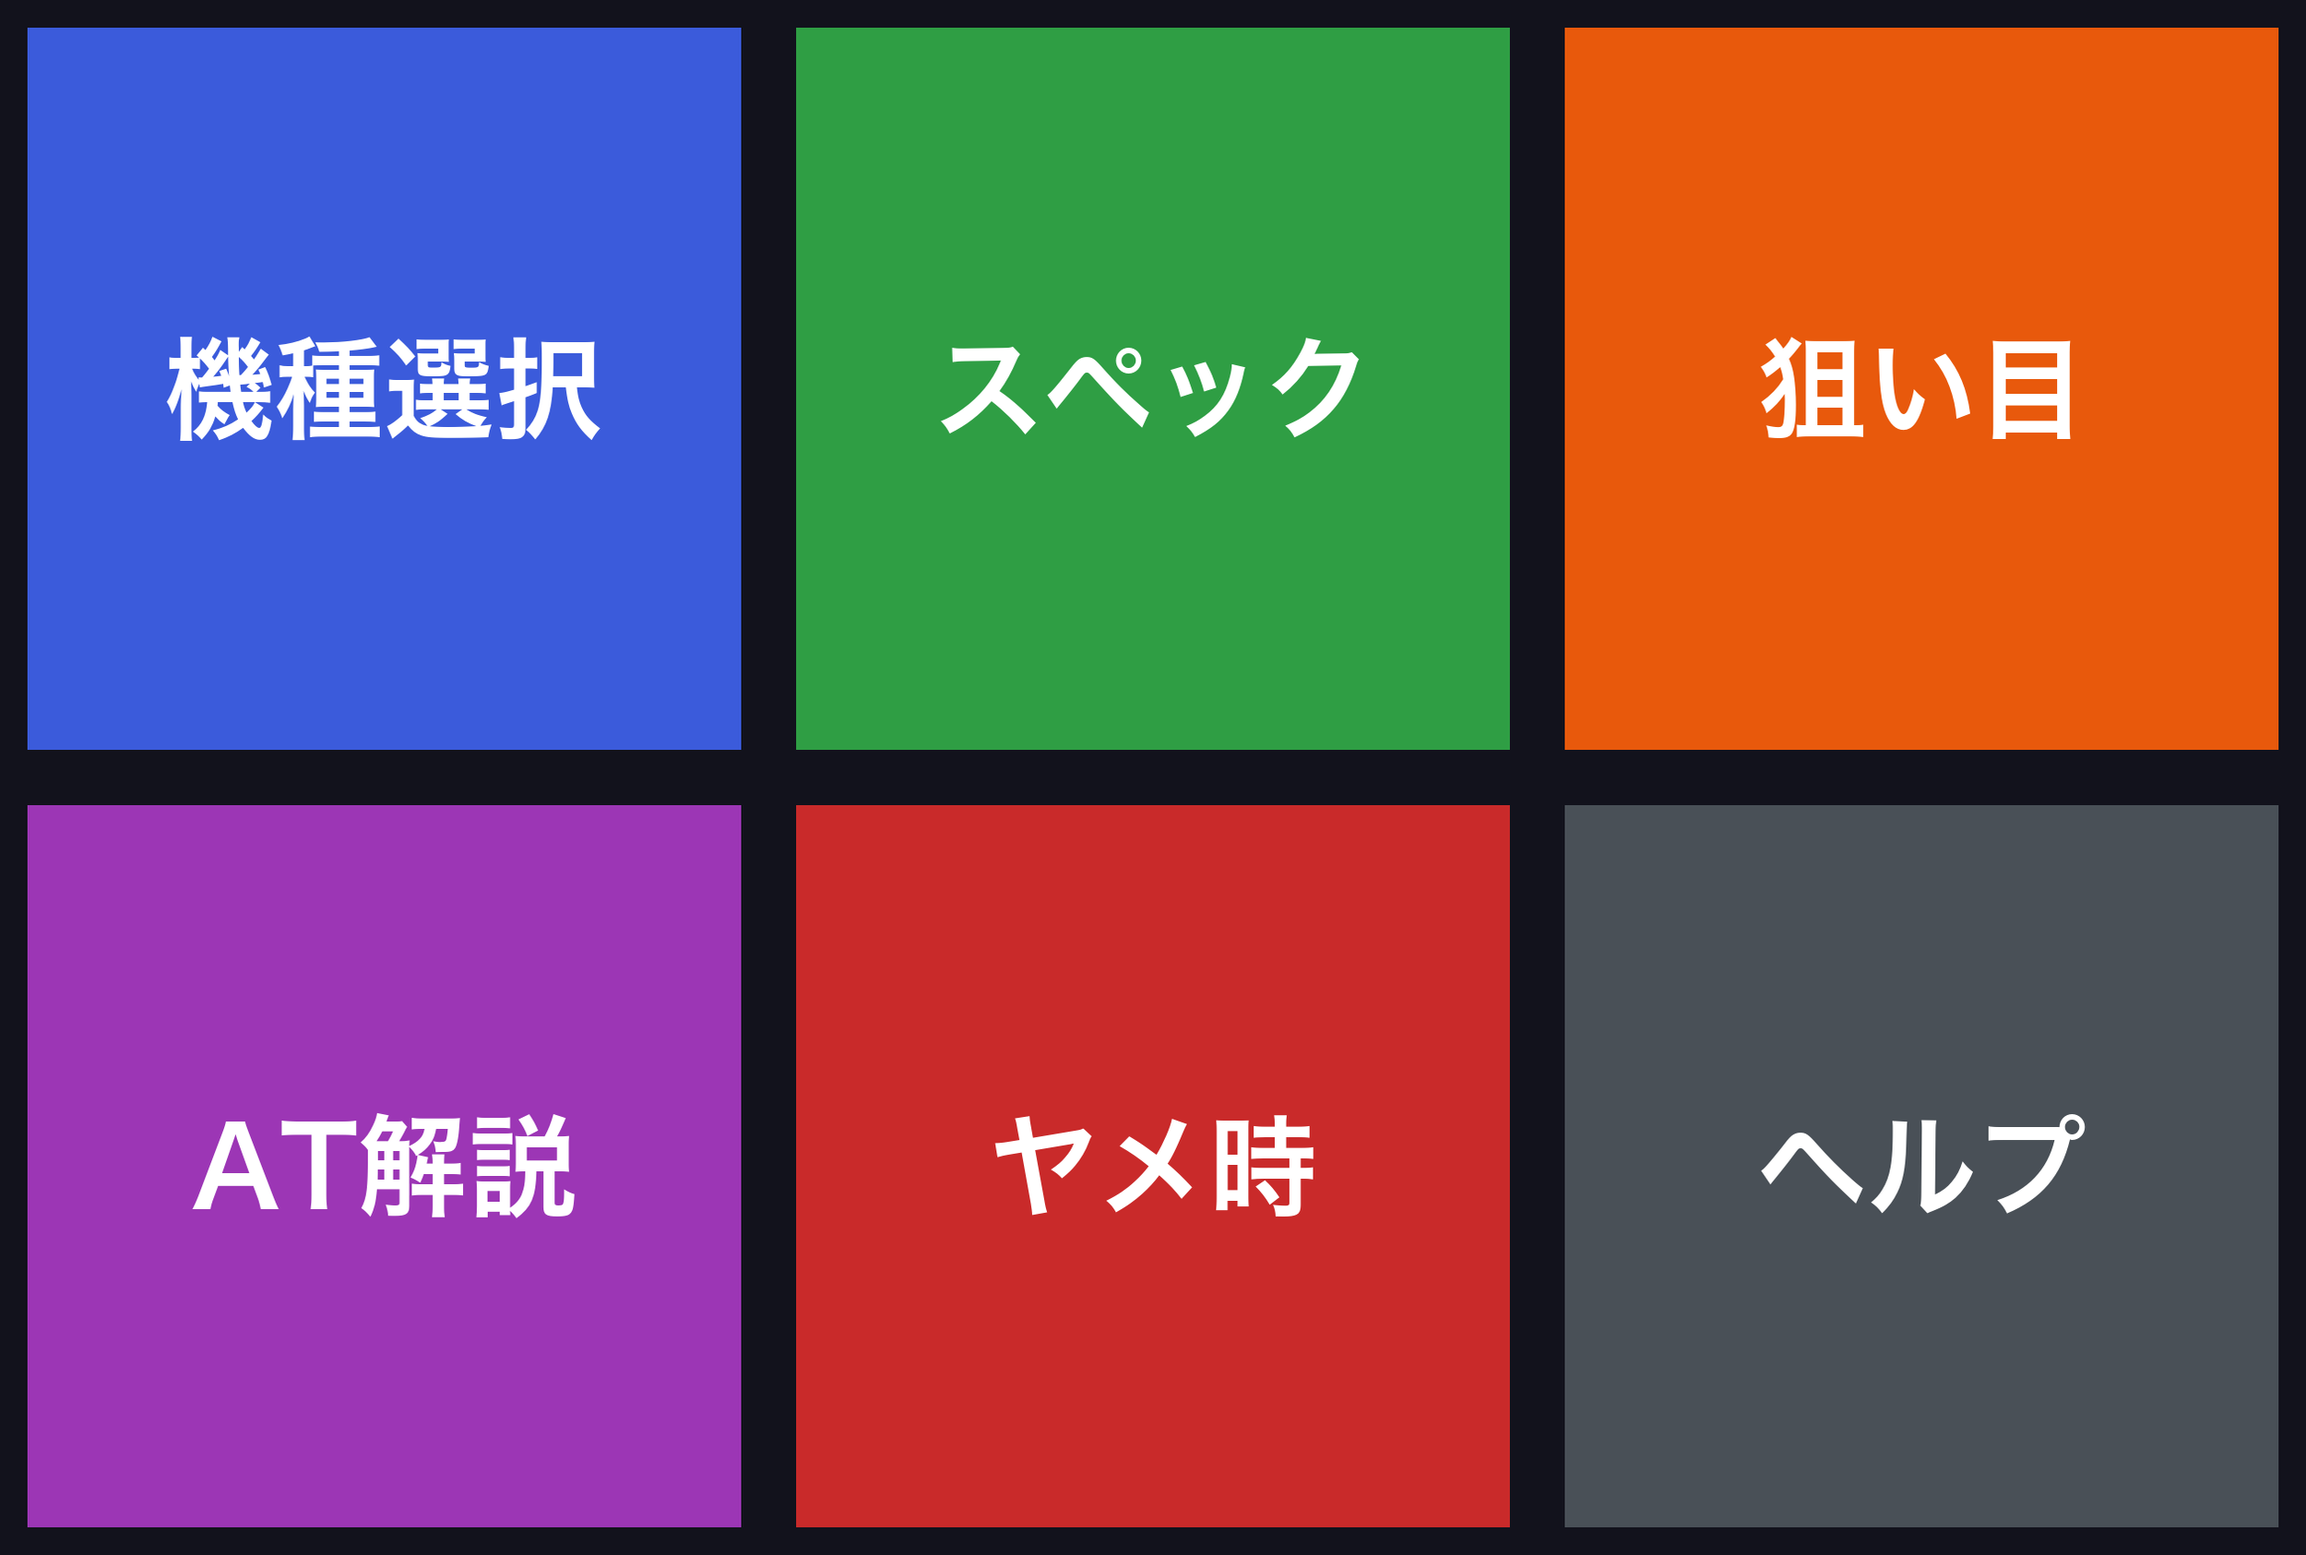
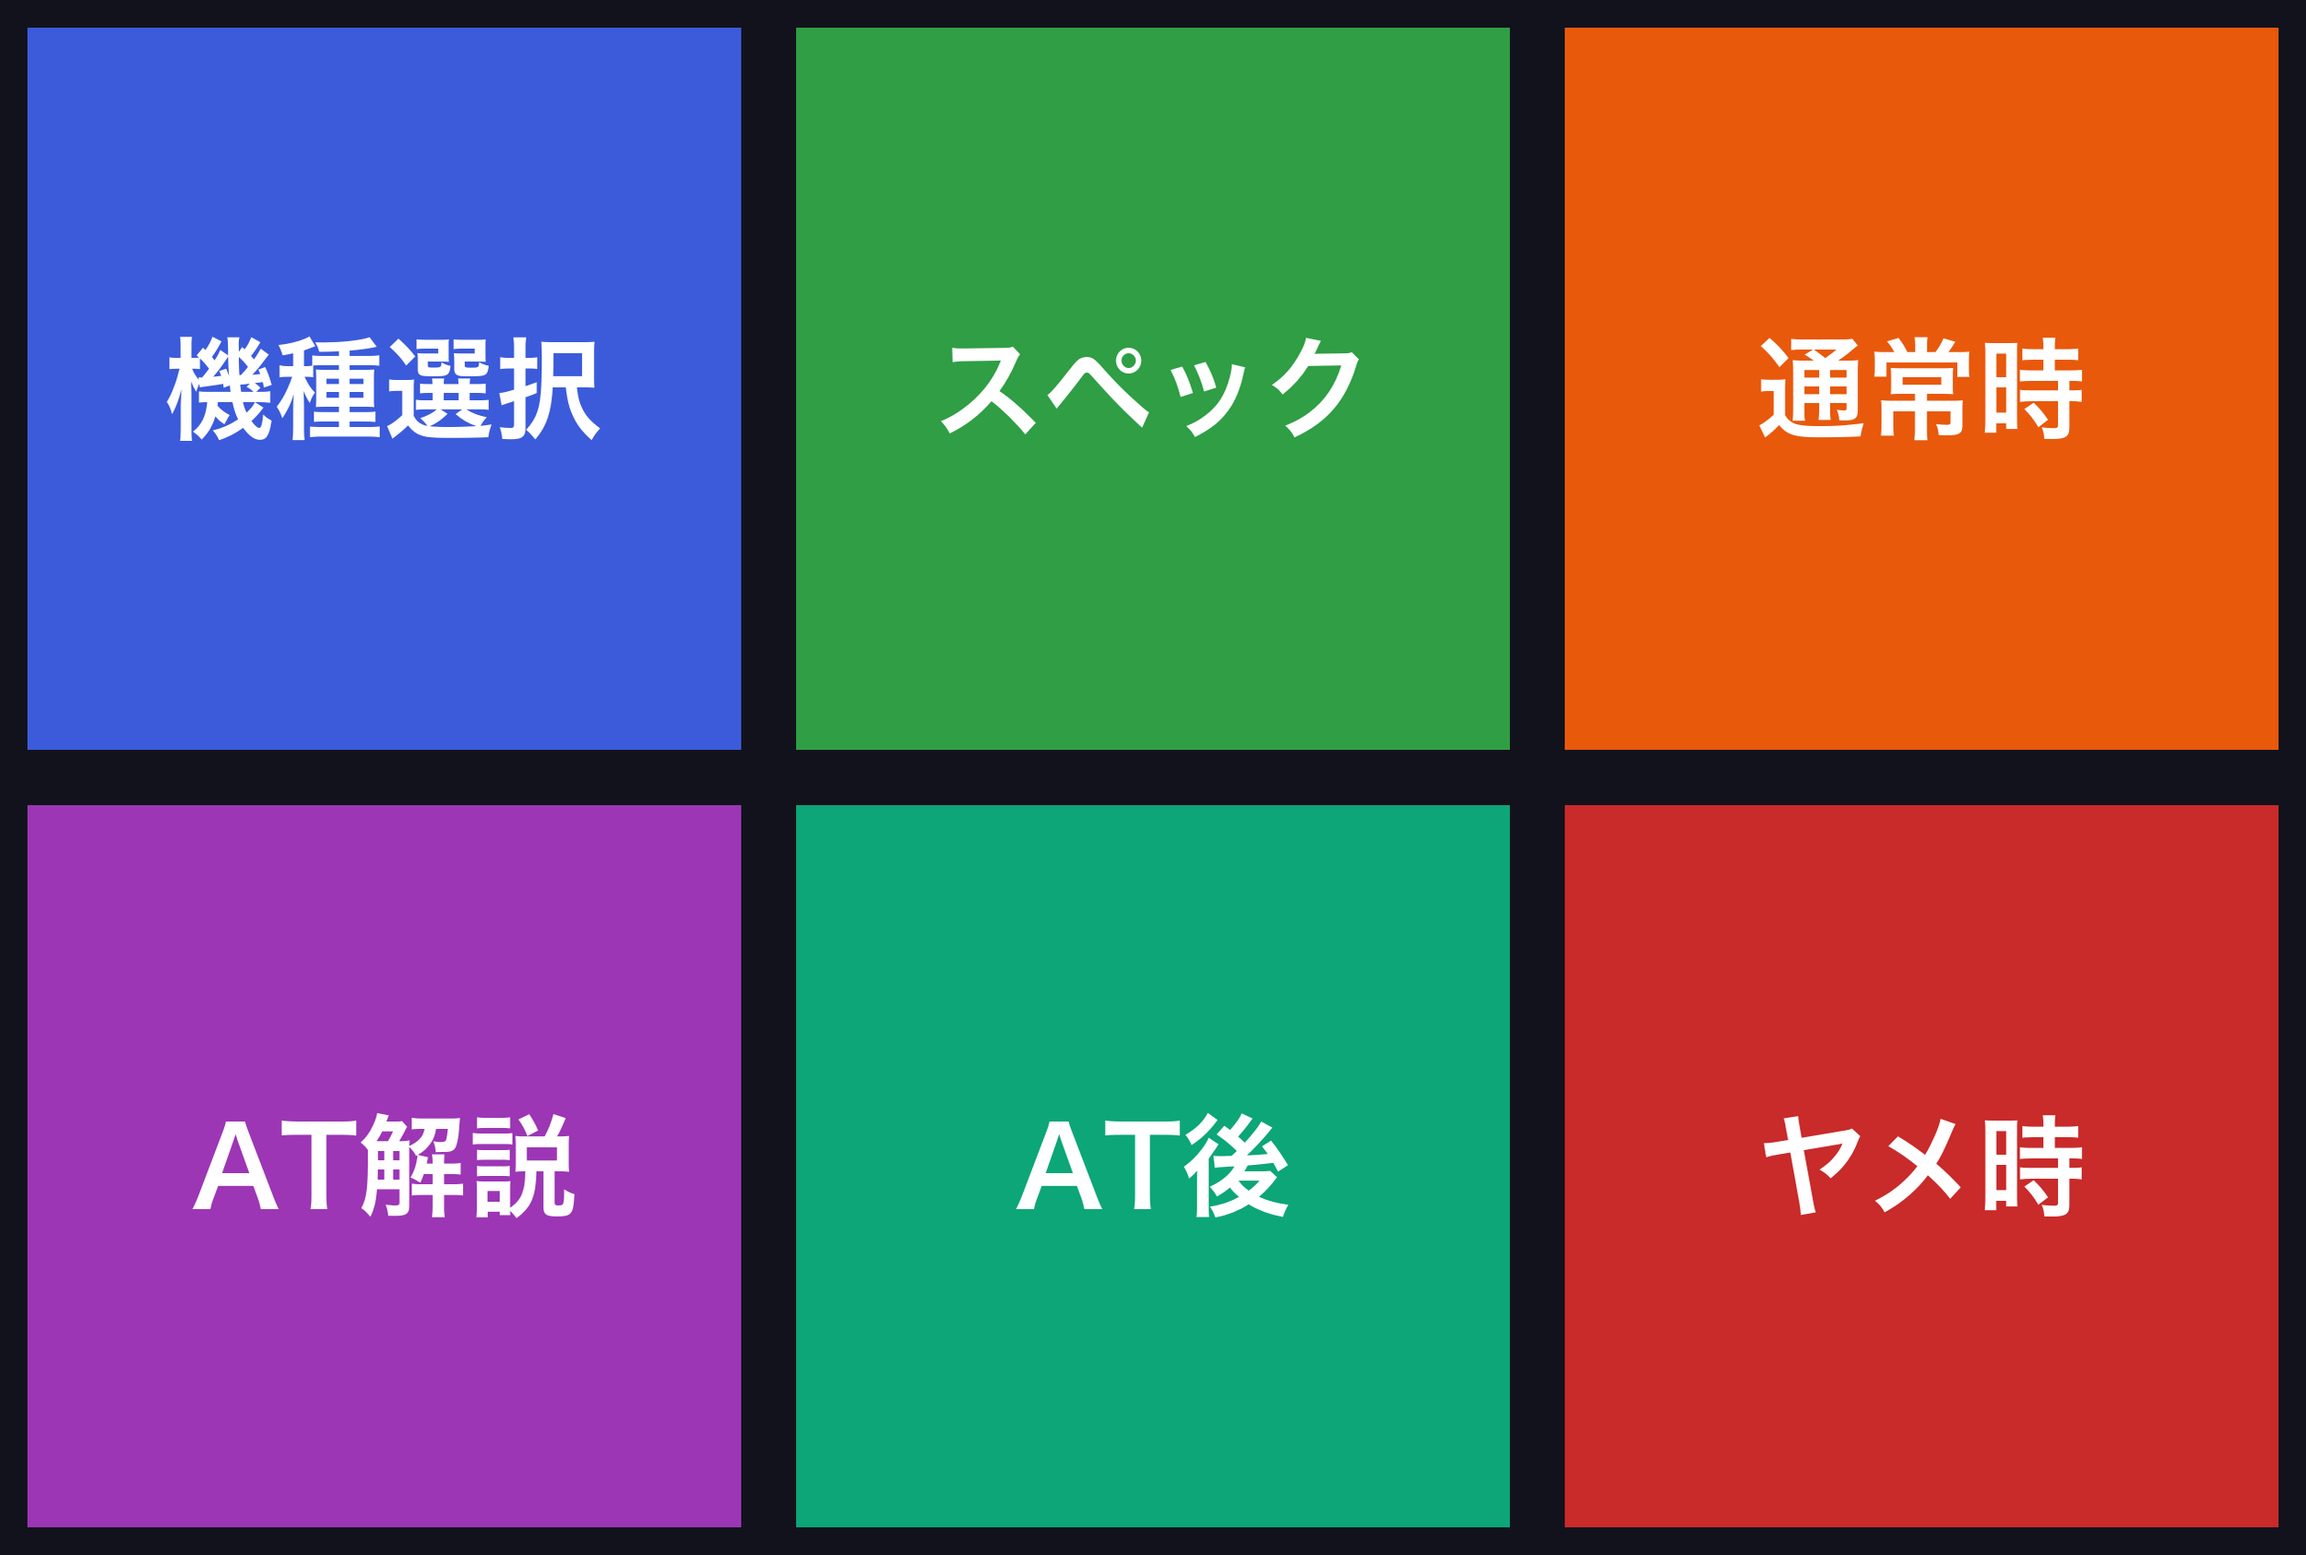
Consolidate to 6 buttons; add NORMAL and AT_AFTER sections

Changed region(s): [[0.3432, 0.4935, 0.9984, 0.987], [0.7488, 0.2159, 0.9048, 0.2776]]

diff --git a/src/router.ts b/src/router.ts
@@ -4,15 +4,18 @@ export type RouteResult = { kind: 'section'; section: SectionKey } | { kind: 'ai
 
 const BUTTON_MAP: Record<string, SectionKey> = {
   スペック: 'SPEC',
+  通常時: 'NORMAL',
   狙い目: 'NORMAL',
   AT解説: 'AT_CZ',
+  AT後: 'AT_AFTER',
   ヤメ時: 'EXIT_SETTING',
 };
 
 const KEYWORD_MAP: { re: RegExp; section: SectionKey }[] = [
   { re: /(純増|コイン持ち|出玉率|機械割|初当り|初当たり|確率|天井|リセット|スルー)/, section: 'SPEC' },
-  { re: /(狙い目|ゾーン|周期|モード)/, section: 'NORMAL' },
+  { re: /(通常時|前兆|モード|周期|ゾーン|狙い目)/, section: 'NORMAL' },
   { re: /(チャンスゾーン|CZ|AT|上乗せ|特化)/i, section: 'AT_CZ' },
+  { re: /(AT後|AT終了後|終了後|引き戻し|上位示唆|ツラヌキ)/, section: 'AT_AFTER' },
   { re: /(ヤメ時|やめ時|やめどき|終了画面|設定判別)/, section: 'EXIT_SETTING' },
 ];
 
@@ -28,7 +31,8 @@ export function routeText(text: string): RouteResult {
 
 export const ACTION_SECTION: Record<string, SectionKey> = {
   spec: 'SPEC',
-  netaime: 'NORMAL',
+  normal: 'NORMAL',
   at: 'AT_CZ',
+  after: 'AT_AFTER',
   exit: 'EXIT_SETTING',
 };

diff --git a/src/machineLoader.ts b/src/machineLoader.ts
@@ -1,4 +1,4 @@
-export type SectionKey = 'SPEC' | 'NORMAL' | 'AT_CZ' | 'EXIT_SETTING';
+export type SectionKey = 'SPEC' | 'NORMAL' | 'AT_CZ' | 'AT_AFTER' | 'EXIT_SETTING';
 
 export function getSection(md: string, section: SectionKey): string {
   const lines = md.split('\n');

diff --git a/src/data/machines/l_monkey_turn_5.md b/src/data/machines/l_monkey_turn_5.md
@@ -22,6 +22,11 @@
 - メインAT: （要確認）
 - 上位AT / ツラヌキ: （要確認）
 
+## AT_AFTER
+- AT終了後の挙動: （要確認）
+- 引き戻し / 上位示唆: （要確認）
+- AT後に狙うもの: （要確認）
+
 ## EXIT_SETTING
 - 最適ヤメ時: （要確認）
 - 設定判別: （要確認）
